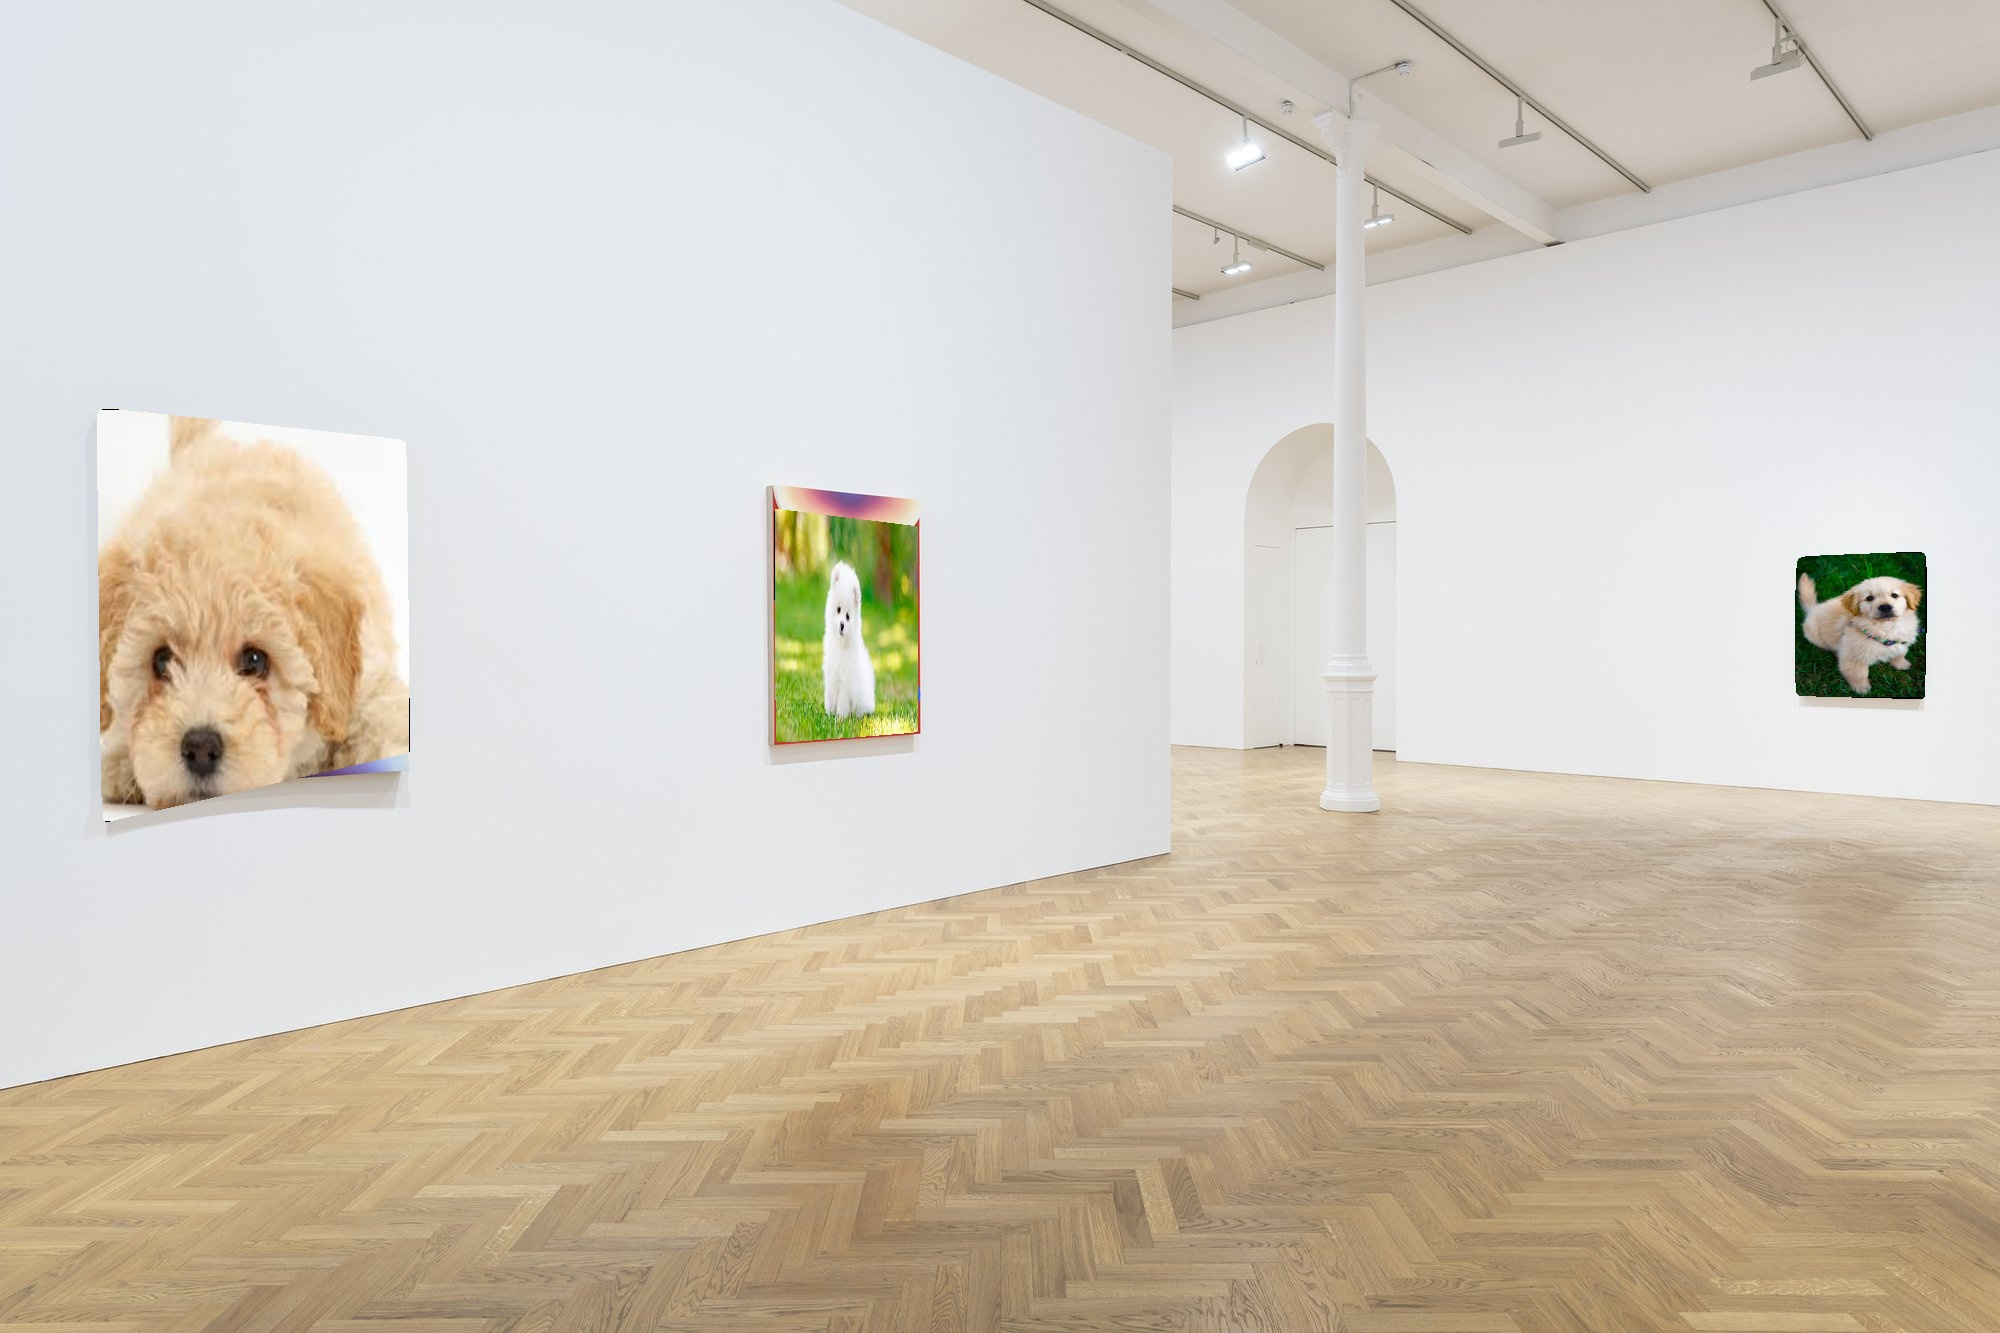
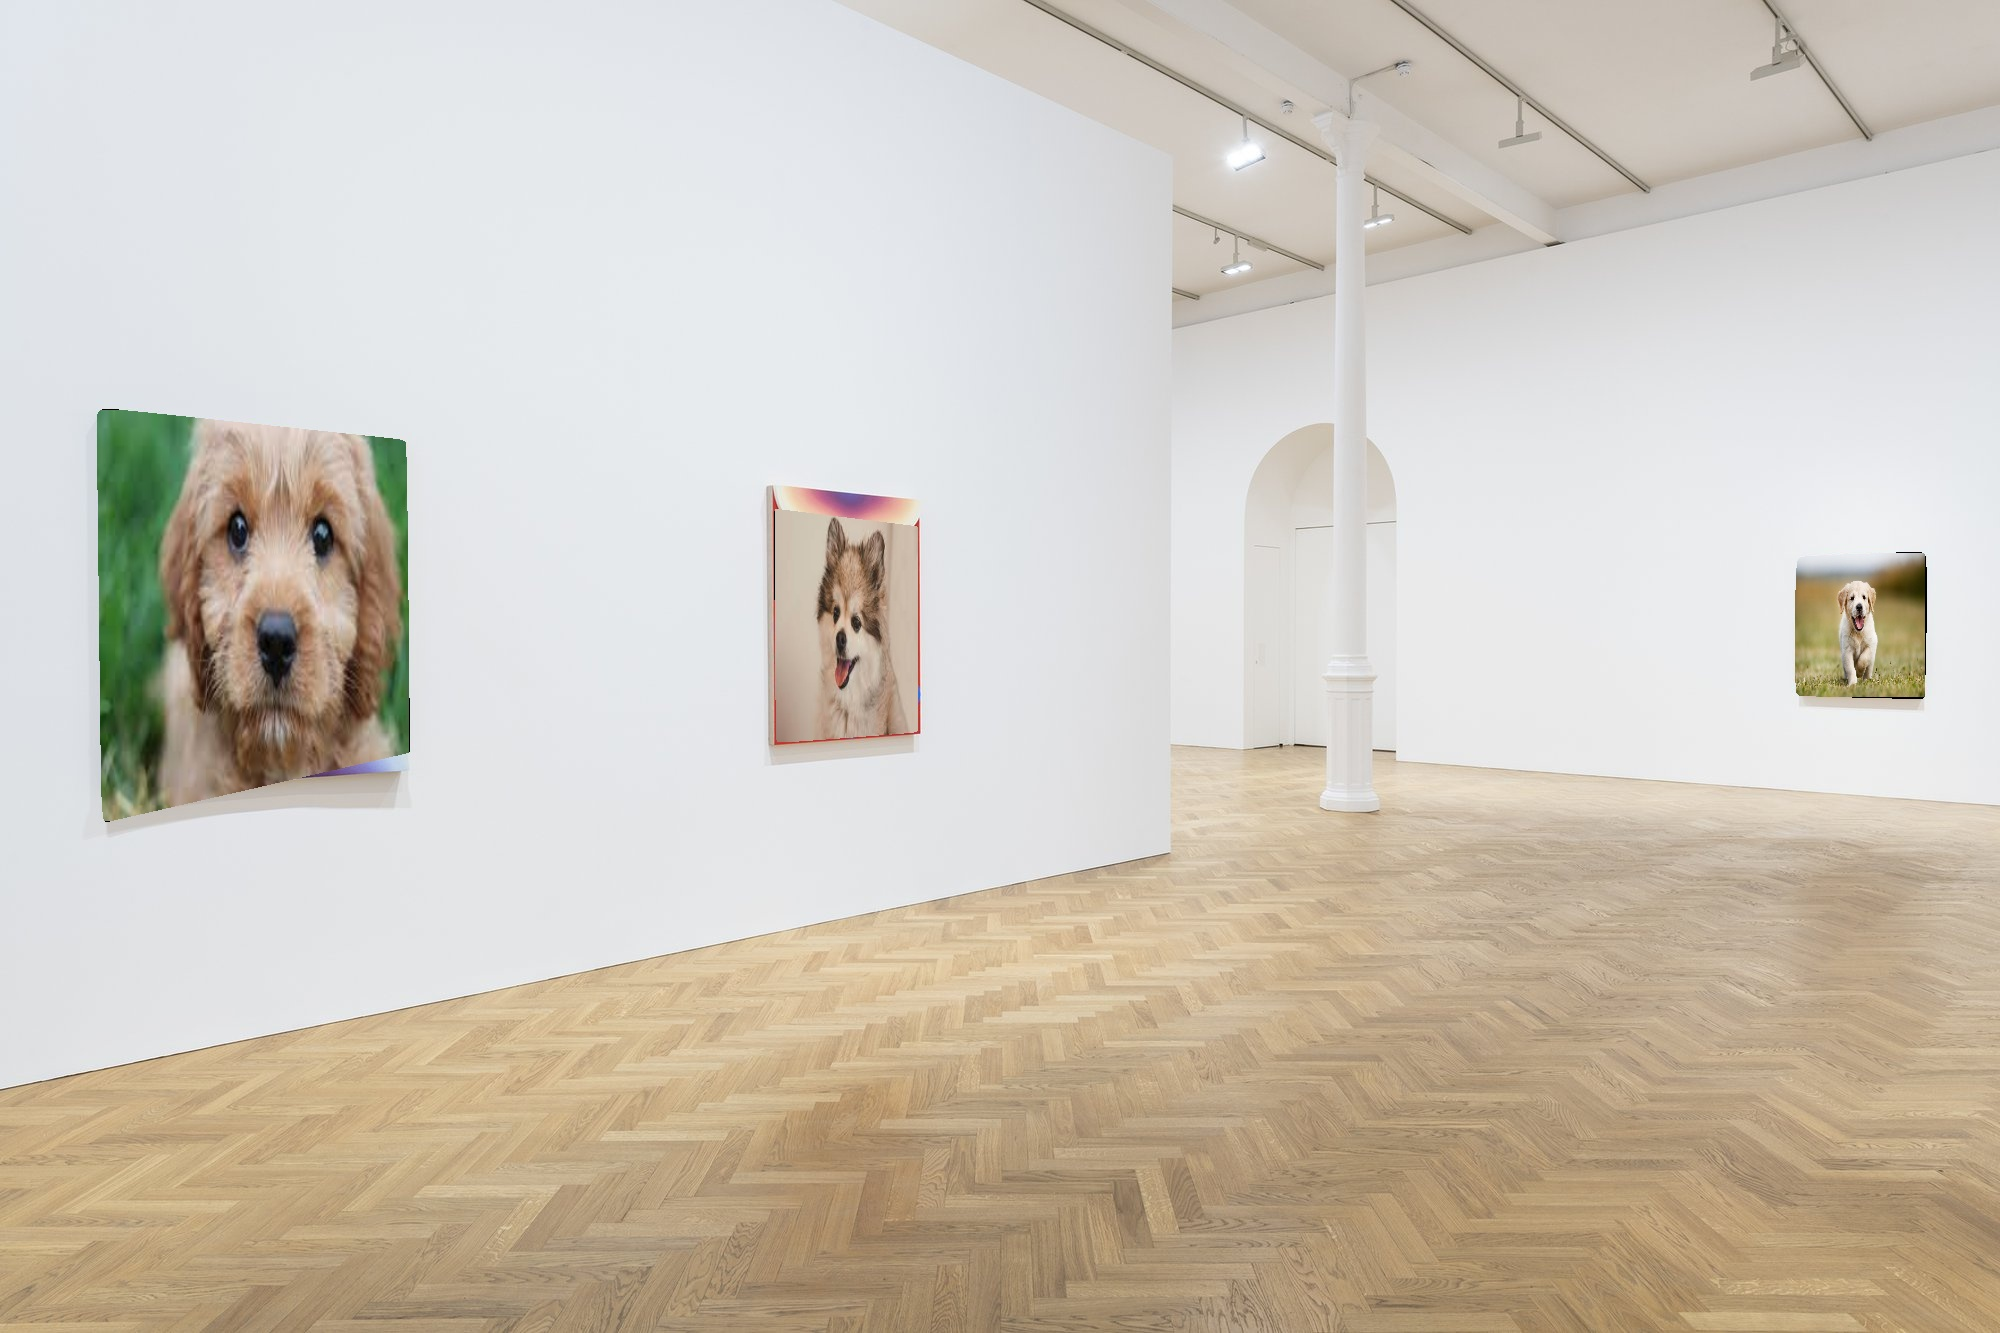
2nd commit

Changed region(s): [[0.031, 0.3076, 0.217, 0.6152], [0.372, 0.3691, 0.465, 0.5536], [0.899, 0.3998, 0.961, 0.5229]]

diff --git a/main.py b/main.py
@@ -4,79 +4,74 @@ import numpy as np
 
 totalImages = glob.glob("./data/*")
 def processImg(img,lth,uth):
-    img = cv2.cvtColor(img, cv2.COLOR_BGR2GRAY)
+    img = cv2.cvtColor(img, cv2.COLOR_BGR2GRAY) #gray scaling the image for binary manipulation
     kernel_size = 5
-    blur_gray = cv2.GaussianBlur(img, (kernel_size, kernel_size), 0)
+    blur_gray = cv2.GaussianBlur(img, (kernel_size, kernel_size), 0) # bluring 
     low_threshold = lth
     high_threshold = uth
-    img = cv2.Canny(blur_gray, low_threshold, high_threshold)
-    contours, hierarchy = cv2.findContours(img,
-                                           cv2.RETR_EXTERNAL, cv2.CHAIN_APPROX_SIMPLE)
-    return contours
+    img = cv2.Canny(blur_gray, low_threshold, high_threshold) # canny edge detection to figure out painting borders
+    contours, hierarchy = cv2.findContours(img,cv2.RETR_EXTERNAL, cv2.CHAIN_APPROX_SIMPLE) # finding contours from edge image
+    return contours # returning contours for postprocessing
+
 for im in totalImages:
-    # white color mask
-    final = cv2.imread(im) #origional image
-    img = final*0
-    puppyFrames = final*0
+    orig = cv2.imread(im) #origional image
+    img = orig*0 # black background for making mask for puppy frames to fit inside painting borders
+    puppyFrames = orig*0 # black background for placing puppy images
 
-    contours = processImg(final,50,150)
+    contours = processImg(orig,50,150) # get contours from grayscale painting image
 
-    img = final*0
-    cv2.drawContours(img, contours, -1, (255, 255, 255), 3)
+    cv2.drawContours(img, contours, -1, (255, 255, 255), 3) # draw contours on a black background with white line
 
-    contours = processImg(img,0,255)
-    img = final * 0
-    for cnt in contours:
+    contours = processImg(img,0,255) # get contours from binary contour image to get more refine border information
+    img = orig * 0 # reinitialize to black background to construct it into mask
+    for cnt in contours: # going through all the contours for specific image to calculate their geometric information
         approx = cv2.approxPolyDP(cnt, 0.009 * cv2.arcLength(cnt, True), True)
         x, y, w, h = cv2.boundingRect(cnt)
-        aspect_ratio = float(w) / h
+        aspect_ratio = float(w) / h # aspect ration showing relation between length and width of contour bounding
 
-        area = cv2.contourArea(cnt)
-        x, y, w, h = cv2.boundingRect(cnt)
-        rect_area = w * h
-        extent = float(area) / rect_area
+        area = cv2.contourArea(cnt) # total area of contour polygon
+        rect_area = w * h # total area of bounding recangle of contour
+        extent = float(area) / rect_area # showing how much its close to rectangular shape
 
-        hull = cv2.convexHull(cnt)
-        hull_area = cv2.contourArea(hull)
-        if(hull_area == 0):
+        hull = cv2.convexHull(cnt) # finding hull to match it to reactngle
+        hull_area = cv2.contourArea(hull) # calculating hull area
+        if(hull_area == 0): # skip to next contour if area is zero
             continue
-        solidity = float(area) / hull_area
+        equi_diameter = np.sqrt(4 * area / np.pi) # estimating the form of contour
 
-        equi_diameter = np.sqrt(4 * area / np.pi)
-        # print(cnt)
-        if(len(cnt)>4):
-            (x, y), (MA, ma), Orientation = cv2.fitEllipse(cnt)
+        if(cv2.contourArea(cnt)>4000 and equi_diameter > 100 and extent > 0.7): # checking area,equidiameter and extent to estimate if contour is in fact painting
+            print(" Width = {}  Height = {} area = {}  aspect ration = {}  extent  = {} orientation = {} ".format(
+                    w, h, area, aspect_ratio, extent, equi_diameter))
+            contours_poly = cv2.approxPolyDP(cnt, 3, True) # getting contour polygon
+            boundRect = cv2.boundingRect(contours_poly) # getting contour bounding recangle representing painting boundary
+            hull = cv2.convexHull(cnt) # calculating hull to estimate positioning and oriantation of painting with tilt
+            cv2.drawContours(img, [hull], -1, (255, 255, 255), -1) # drawing that hull(paiting) on black background image making mask for specific painting area
+            puppy = cv2.imread(random.choice(glob.glob('./puppyImages/*'))) # getting random puppy image from directory
+            puppy = cv2.resize(puppy, (boundRect[2],boundRect[3])) # resizing it to size of paiting rectanle
+            puppyFrames[int(boundRect[1]):int(boundRect[1] + boundRect[3]), int(boundRect[0]):int(boundRect[0] + boundRect[2])] = puppy # plaing puppy image on specific location on black image
 
-            if(cv2.contourArea(cnt)>4000 and equi_diameter > 100 and extent > 0.7):
-                print(
-                    " Width = {}  Height = {} area = {}  aspect ration = {}  extent  = {} solidity = {} equi_diameter = {} orientation = {} ".format(
-                        w, h, area, aspect_ratio, extent, solidity, equi_diameter, Orientation))
-                contours_poly = cv2.approxPolyDP(cnt, 3, True)
-                boundRect = cv2.boundingRect(contours_poly)
-                hull = cv2.convexHull(cnt)
-                cv2.drawContours(img, [hull], -1, (255, 255, 255), -1)
-                puppy = cv2.imread(random.choice(glob.glob('./puppyImages/*')))
-                puppy = cv2.resize(puppy, (boundRect[2],boundRect[3]))
-                puppyFrames[int(boundRect[1]):int(boundRect[1] + boundRect[3]), int(boundRect[0]):int(boundRect[0] + boundRect[2])] = puppy
-                cv2.polylines(img, pts=[cnt], color=(255, 255, 255), isClosed=True)
-
-    img = cv2.cvtColor(img, cv2.COLOR_BGR2GRAY)
-    # mult = cv2.multiply(img, puppyFrames)
+    img = cv2.cvtColor(img, cv2.COLOR_BGR2GRAY) # getting single channel of mask
+    # splitting puppy frame placement image to apply mask on all three channels
     (B1, G1, R1) = cv2.split(puppyFrames)
     B1 = cv2.bitwise_and(B1, B1, mask=img)
     G1 = cv2.bitwise_and(G1, G1, mask=img)
     R1 = cv2.bitwise_and(R1, R1, mask=img)
-    # res = cv2.merge([B1, G1, R1])
 
-    img = cv2.bitwise_not(img)
-    (B2, G2, R2) = cv2.split(final)
+    img = cv2.bitwise_not(img) # inverting mask to get background of painting except painting part
+
+    # splitting origional image to apply inverted mask to get background for all three channels
+    (B2, G2, R2) = cv2.split(orig)
     B2 = cv2.bitwise_and(B2, B2, mask=img)
     G2 = cv2.bitwise_and(G2, G2, mask=img)
     R2 = cv2.bitwise_and(R2, R2, mask=img)
+
+    # adding all three channels of forground and background
     B = cv2.add(B1,B2)
     G = cv2.add(G1, G2)
     R = cv2.add(R1, R2)
 
+    # merging all channels to get an image
     res = cv2.merge([B, G, R])
 
+    #writing the swapped image in dir "swappedImages" with same image name
     cv2.imwrite('./swappedImages/' + im.split('/')[-1], res)
